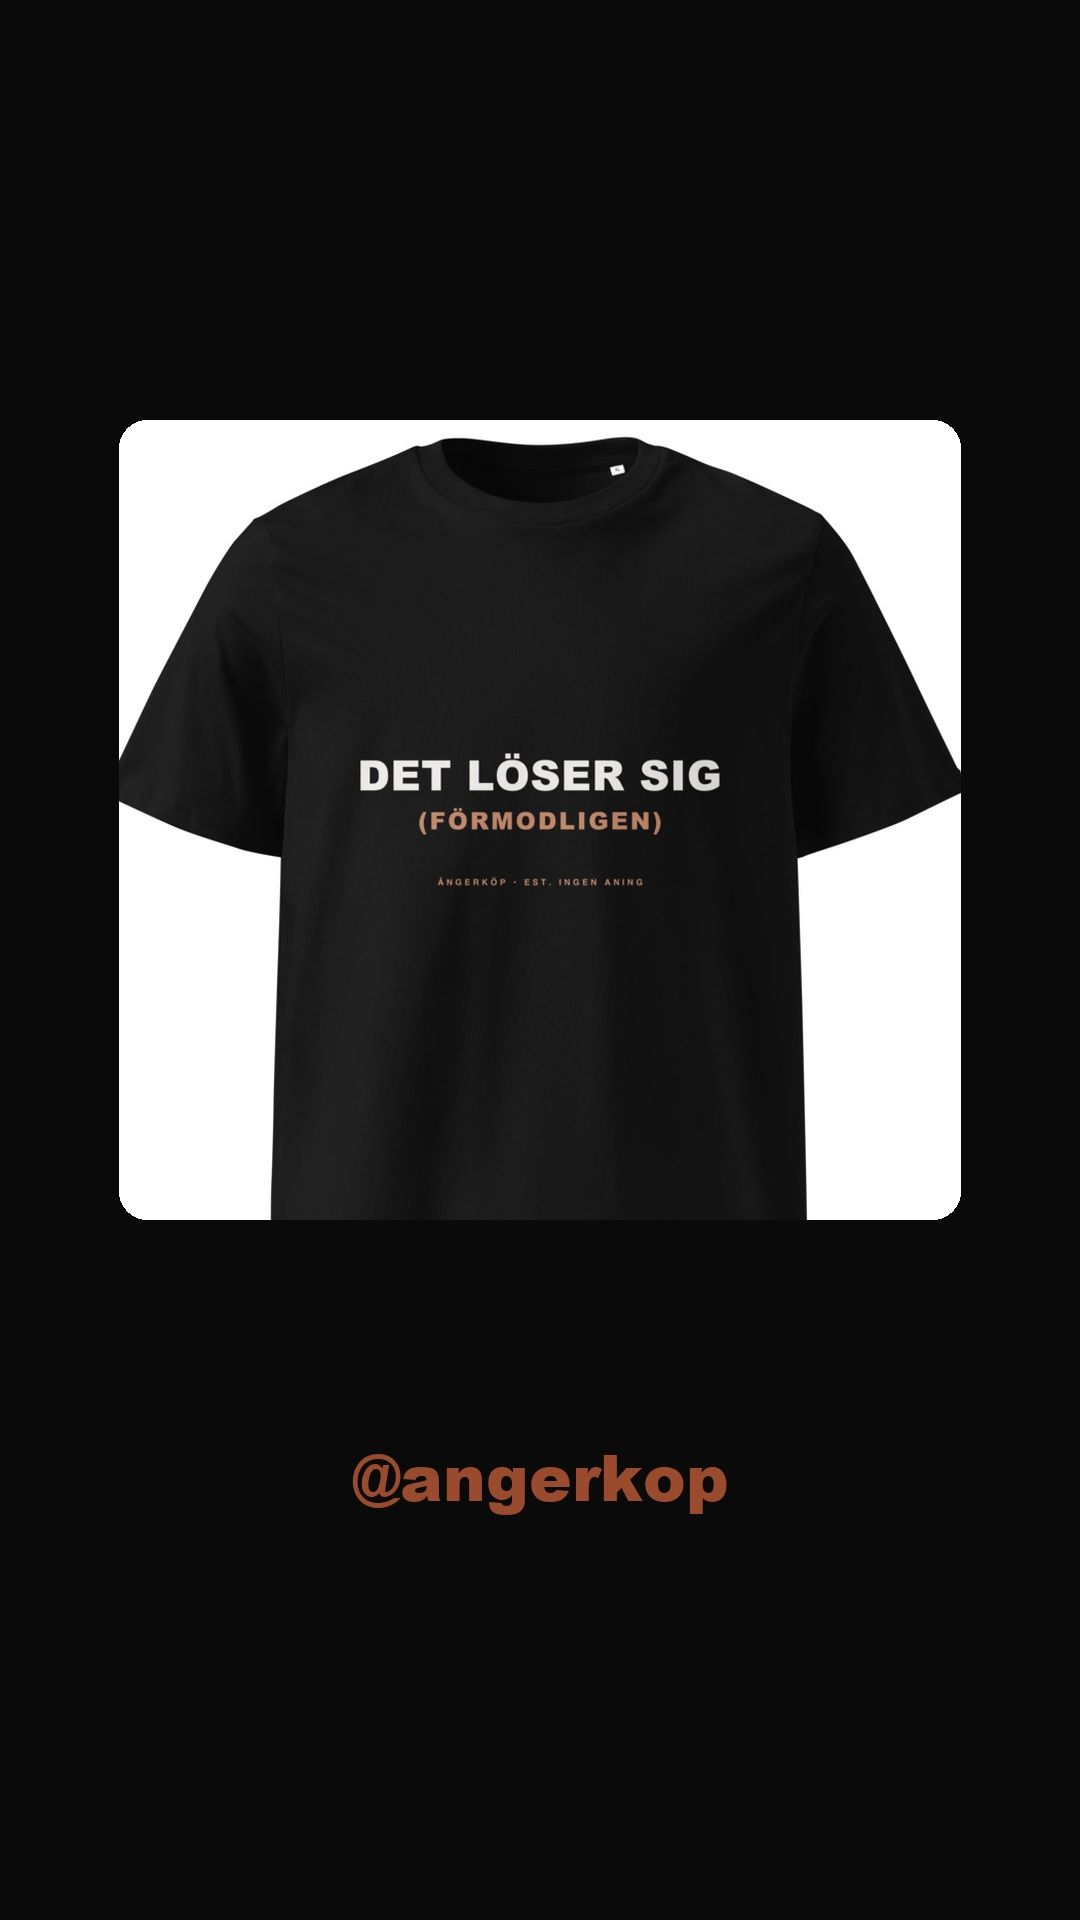
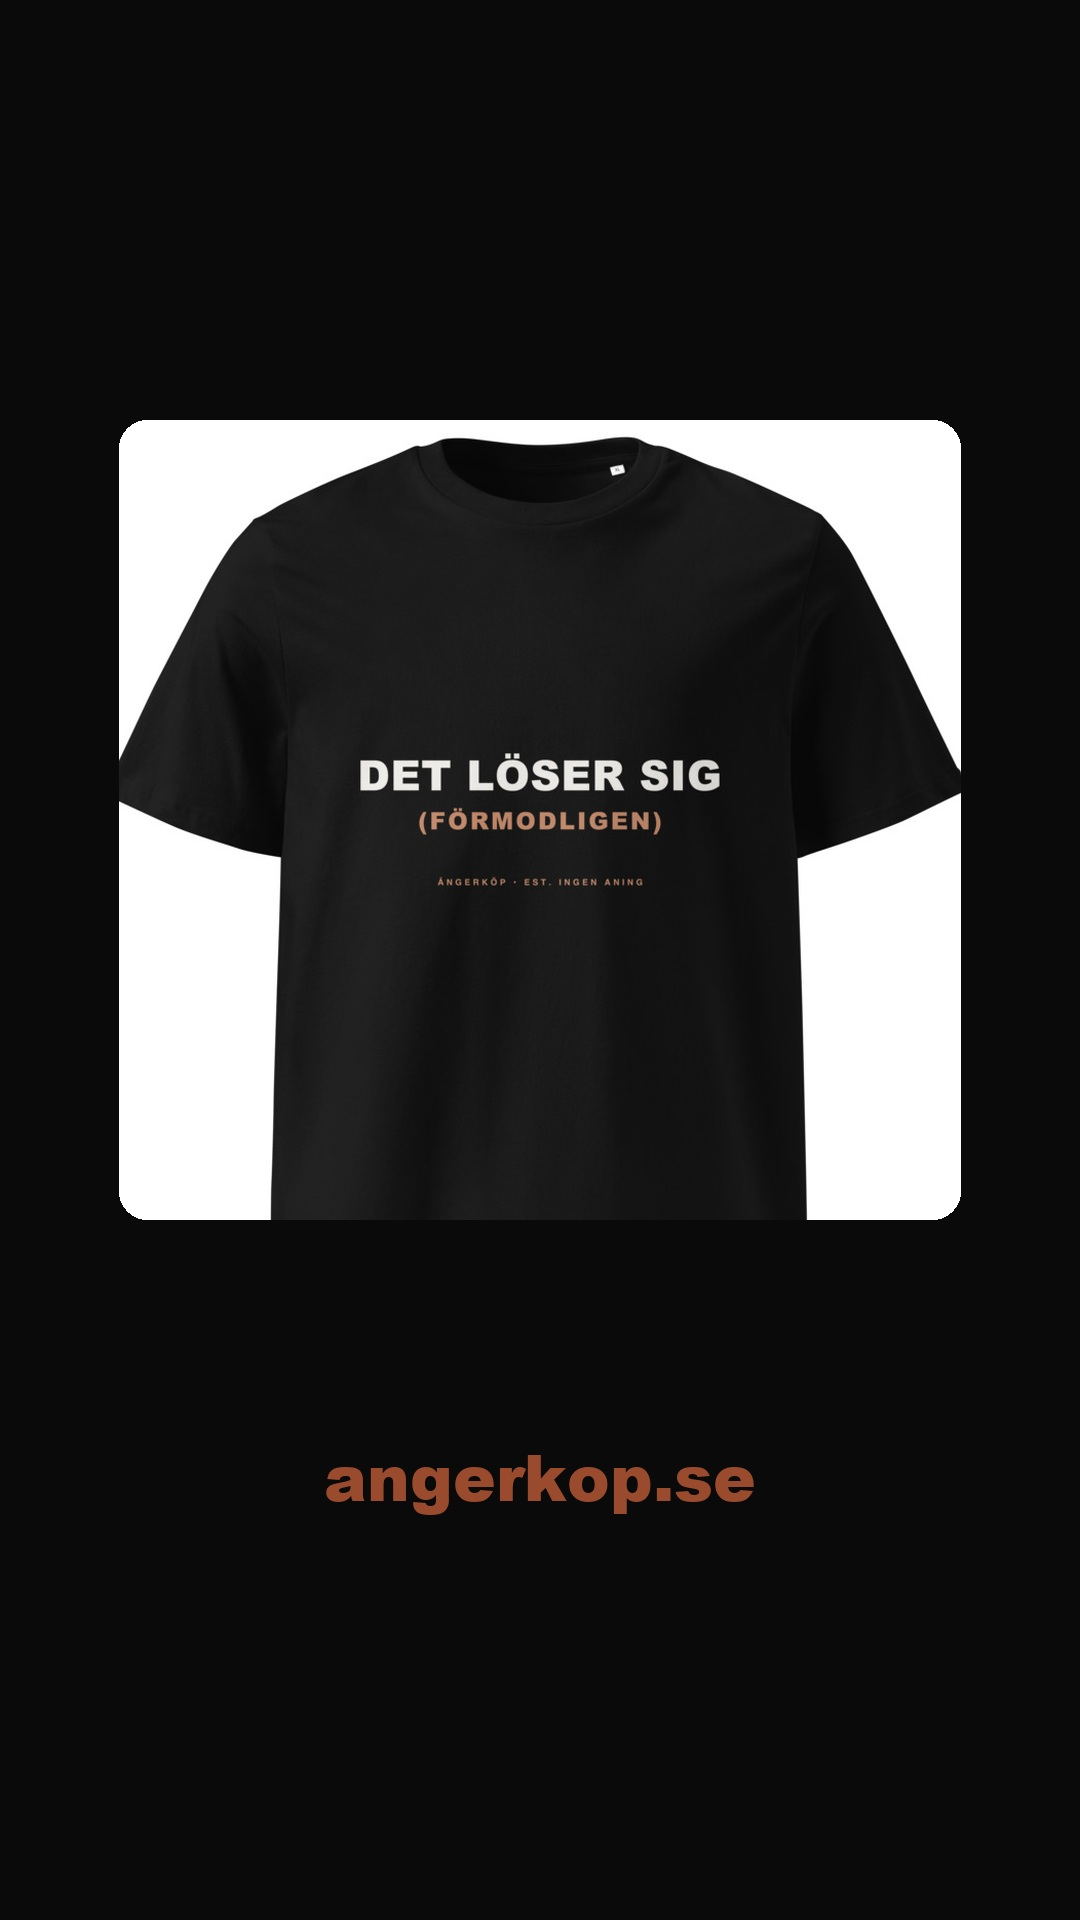
Stop sending the rest of the world to the Swedish storefront
Only eight countries were mapped to a region, so the middleware's
fallback was doing most of the routing. Measured against production
before the change:

    NO, FI, NL, IE, PL, CH, JP, AU, CA, BR  ->  /se

A Norwegian or a Dutch visitor to angerkop.se landed on the Swedish
storefront, reading Swedish and quoted in SEK; the same visitors on
solkast.com fell through to /us and were quoted USD for a garment
printed and posted inside the EU.

Widening the region rather than the router, because routing alone
cannot fix it: Medusa builds the checkout country dropdown from the
region's own country list, so a visitor sent to a region that does not
contain their country reaches the address step and finds nowhere to
ship — the same failure that made Sweden unselectable before it had a
region of its own. Shipping options hang off the geo zone for the same
reason, so the zone is widened in step with the region.

Europe now covers the EU plus the EEA and Switzerland, 31 countries.
Sweden keeps its own SEK region and is skipped, as is any country
another region already claims — that guard is what stops a re-run from
quietly pulling `se` back into EUR.

Verified end to end for a Norwegian shopper afterwards: EUR pricing,
Oslo address accepted, Standard 10 EUR and Express 19 EUR offered. Geo
now resolves NO->/no, FI->/fi, NL->/nl, IE->/ie, PL->/pl, CH->/ch.
Non-European visitors still fall to each brand's default, which is
English USD on Solkast.
[…]

Changed region(s): [[0.3056, 0.75, 0.7028, 0.8125]]

diff --git a/apps/backend/src/scripts/expand-europe-region.ts b/apps/backend/src/scripts/expand-europe-region.ts
@@ -1,0 +1,187 @@
+import { MedusaContainer } from "@medusajs/framework";
+import { ContainerRegistrationKeys, Modules } from "@medusajs/framework/utils";
+import {
+  createTaxRegionsWorkflow,
+  updateRegionsWorkflow,
+} from "@medusajs/medusa/core-flows";
+
+/**
+ * Widen the Europe region so European visitors are not sent to Sweden.
+ *
+ * Only eight countries were mapped to a region — se, dk, de, gb, fr, it, es,
+ * us — and the middleware falls through to NEXT_PUBLIC_DEFAULT_REGION for
+ * everyone else. Measured against production:
+ *
+ *     NO, FI, NL, JP, AU, CA, BR  ->  /se
+ *
+ * So a Norwegian or a Dutch visitor to angerkop.se landed on the Swedish
+ * storefront, reading Swedish and quoted in SEK. On solkast.com the same
+ * visitors fell to /us and were quoted USD for a garment printed and posted
+ * inside the EU.
+ *
+ * Routing alone cannot fix this. Medusa builds the checkout country dropdown
+ * from the region's own country list, so a visitor sent to a region that does
+ * not contain their country reaches the address step and finds nowhere to
+ * ship — the same failure that made Sweden unselectable before it had its
+ * own region. The countries have to be *in* the region.
+ *
+ * Additive and idempotent: nothing is removed, se keeps its own SEK region,
+ * and re-running is a no-op.
+ *
+ *   npx medusa exec ./src/scripts/expand-europe-region.ts
+ */
+
+// EU plus the EEA and Switzerland — everywhere Printful's EU facility ships
+// to at European rates. `se` is deliberately absent: it has its own SEK
+// region and a country may belong to only one.
+const EUROPE = [
+  "at", "be", "bg", "hr", "cy", "cz", "dk", "ee", "fi", "fr",
+  "de", "gr", "hu", "ie", "it", "lv", "lt", "lu", "mt", "nl",
+  "pl", "pt", "ro", "sk", "si", "es", "gb", "no", "is", "li", "ch",
+];
+
+export default async function expandEuropeRegion({
+  container,
+}: {
+  container: MedusaContainer;
+}) {
+  const logger = container.resolve(ContainerRegistrationKeys.LOGGER);
+  const query = container.resolve(ContainerRegistrationKeys.QUERY);
+  const fulfillmentModuleService = container.resolve(Modules.FULFILLMENT);
+
+  // ——— Find the EUR region ———
+  const { data: regions } = await query.graph({
+    entity: "region",
+    fields: ["id", "name", "currency_code", "countries.iso_2"],
+  });
+  const europe = regions.find((r) => r.currency_code === "eur");
+  if (!europe) {
+    logger.error("No EUR region found — nothing to widen.");
+    return;
+  }
+
+  const existing = new Set(
+    (europe.countries || []).map((c: any) => c?.iso_2).filter(Boolean)
+  );
+
+  // A country can only sit in one region, so never claim one that another
+  // region already owns — that is how Sweden would silently lose its SEK
+  // pricing on a re-run.
+  const claimedElsewhere = new Set<string>();
+  for (const r of regions) {
+    if (r.id === europe.id) continue;
+    for (const c of r.countries || []) {
+      if ((c as any)?.iso_2) claimedElsewhere.add((c as any).iso_2);
+    }
+  }
+
+  const toAdd = EUROPE.filter(
+    (c) => !existing.has(c) && !claimedElsewhere.has(c)
+  );
+  const skipped = EUROPE.filter((c) => claimedElsewhere.has(c));
+
+  if (skipped.length) {
+    logger.info(`Leaving ${skipped.join(",")} with their own region(s).`);
+  }
+
+  if (!toAdd.length) {
+    logger.info(`"${europe.name}" already covers every target country.`);
+  } else {
+    await updateRegionsWorkflow(container).run({
+      input: {
+        selector: { id: europe.id },
+        update: { countries: [...existing, ...toAdd] },
+      },
+    });
+    logger.info(
+      `Added ${toAdd.length} countries to "${europe.name}": ${toAdd.join(",")}`
+    );
+  }
+
+  // ——— Tax regions ———
+  // Medusa resolves tax per country, not per region. Without a tax region a
+  // cart in that country throws at the totals step rather than degrading, so
+  // this is not optional.
+  const { data: taxRegions } = await query.graph({
+    entity: "tax_region",
+    fields: ["id", "country_code"],
+  });
+  const haveTax = new Set(taxRegions.map((t: any) => t.country_code));
+  const missingTax = EUROPE.filter((c) => !haveTax.has(c));
+
+  for (const country_code of missingTax) {
+    try {
+      await createTaxRegionsWorkflow(container).run({
+        input: [{ country_code, provider_id: "tp_system" }],
+      });
+    } catch (e) {
+      logger.warn(`Tax region ${country_code}: ${(e as Error).message}`);
+    }
+  }
+  logger.info(
+    missingTax.length
+      ? `Created ${missingTax.length} tax region(s): ${missingTax.join(",")}`
+      : "All tax regions already present."
+  );
+
+  // ——— Service zone ———
+  // Shipping options hang off a geo zone. A country in the region but not in
+  // the zone reaches checkout and is offered no shipping method at all.
+  const { data: fulfillmentSets } = await query.graph({
+    entity: "fulfillment_set",
+    fields: [
+      "id",
+      "service_zones.id",
+      "service_zones.name",
+      "service_zones.geo_zones.id",
+      "service_zones.geo_zones.country_code",
+    ],
+  });
+
+  let widened = 0;
+  for (const set of fulfillmentSets) {
+    for (const zone of set.service_zones || []) {
+      const zoneCountries = new Set(
+        (zone.geo_zones || []).map((g: any) => g.country_code)
+      );
+      // The Europe zone is the one already serving the region's countries;
+      // matching on membership rather than on a name we do not control.
+      const isEuropeZone = [...existing].some((c) => zoneCountries.has(c));
+      if (!isEuropeZone) continue;
+
+      const zoneMissing = EUROPE.filter(
+        (c) => !zoneCountries.has(c) && !claimedElsewhere.has(c)
+      );
+      if (!zoneMissing.length) {
+        logger.info(`Service zone "${zone.name}" already covers everything.`);
+        continue;
+      }
+
+      await fulfillmentModuleService.updateServiceZones(zone.id, {
+        geo_zones: [
+          ...(zone.geo_zones || []).map((g: any) => ({
+            type: "country" as const,
+            country_code: g.country_code,
+          })),
+          ...zoneMissing.map((country_code) => ({
+            type: "country" as const,
+            country_code,
+          })),
+        ],
+      });
+      widened++;
+      logger.info(
+        `Added ${zoneMissing.length} countries to service zone "${zone.name}": ${zoneMissing.join(",")}`
+      );
+    }
+  }
+
+  if (!widened) {
+    logger.warn(
+      "No service zone was widened — check that the Europe geo zone exists, " +
+        "or new countries will have no shipping options at checkout."
+    );
+  }
+
+  logger.info("Done.");
+}

diff --git a/scripts/build-hook-reels.py b/scripts/build-hook-reels.py
@@ -34,7 +34,9 @@ from reel_common import (
     wrap,
 )
 
-HANDLE = "@angerkop"
+# The shop is live now; the end card is the only place a viewer is told
+# where to go, so it carries the domain rather than the handle.
+HANDLE = "angerkop.se"
 
 # Written to be recognised, not admired: each names a specific moment rather
 # than a mood. "När du" openers put the viewer in it immediately.

diff --git a/scripts/build-quiz-reel.py b/scripts/build-quiz-reel.py
@@ -48,7 +48,9 @@ OPTIONS = [
 ]
 
 QUESTION = "VILKEN ÄR DU?"
-HANDLE = "@angerkop"
+# The shop is live now; the end card is the only place a viewer is told
+# where to go, so it carries the domain rather than the handle.
+HANDLE = "angerkop.se"
 
 
 def font(size, black=True):
